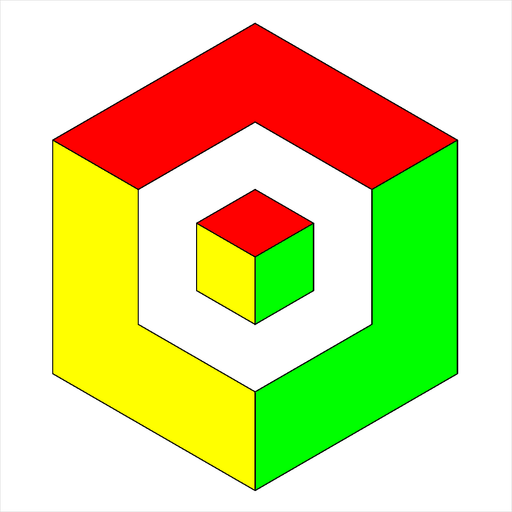
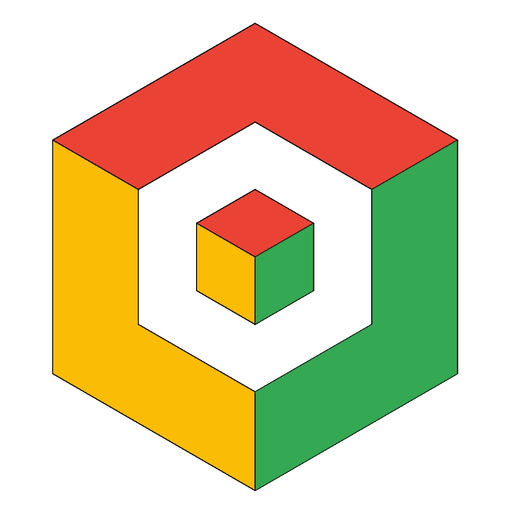
1.1.2

diff --git a/src/components/BrandMark.tsx b/src/components/BrandMark.tsx
@@ -20,7 +20,7 @@ export function BrandMark({
       style={{ width: size, height: size, ...style }}
     >
       <Image
-        src="/brand/logo-light.png"
+        src="/brand/logo.png"
         alt="Luo Sir logo"
         width={size}
         height={size}